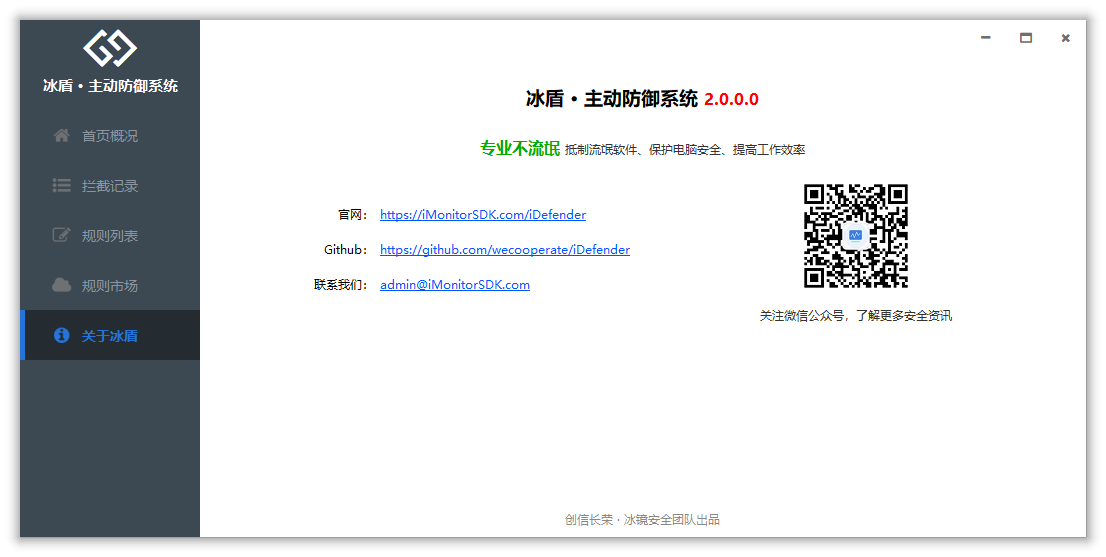
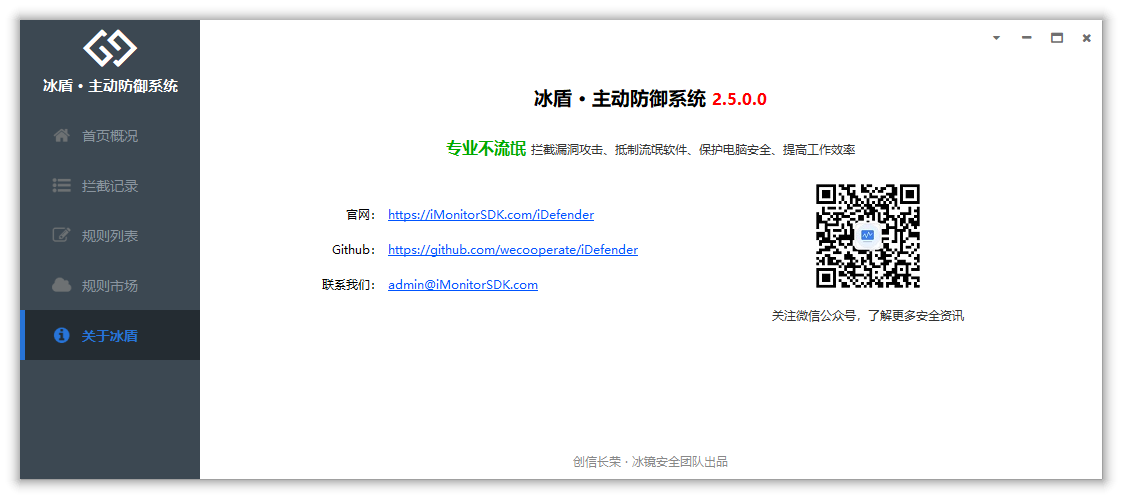
iDefender 2.5

diff --git a/docs/idefender/index.md b/docs/idefender/index.md
@@ -1,5 +1,5 @@
 ---
-title: 冰盾 - 主动防御系统
+title: 冰盾 · 主动防御系统
 order: 0
 nav:
   title: 冰盾
@@ -8,24 +8,25 @@ nav:
 
 ## iDefender
 
-**冰盾 - 主动防御系统**  【专业不流氓】是一款基于[iMonitorSDK](https://imonitorsdk.com/)实现，为专业人士打造的终端、主机主动防御系统。使用冰盾可以帮助您抵制流氓软件、保护电脑安全、提高工作效率。
+**冰盾 · 主动防御系统**  【专业不流氓】是一款基于[iMonitorSDK](https://imonitorsdk.com/)实现，为专业人士打造的终端、主机主动防御系统。使用冰盾可以帮助您拦截漏洞攻击、抵制流氓软件、保护电脑安全、提高工作效率。
 
 ## 功能特点
 
-- 支持进程、文件、注册表、网络等多种事件的监控拦截
-- 支持多种不同的规则匹配，使用模板 + 参数的方式，让规则编辑更加方便
-- 使用匹配缓存，优化匹配速度，性能消耗低
+- 支持监控拦截多种事件，包括进程、文件、注册表、网络等。
+- 内置智能防护、系统优化、安全加固、漏洞防御等默认规则，一键开启防护功能。
+- 支持多种规则模板，可以快速添加规则，满足不同的防护需求。
+- 占用系统资源低，兼容性好，适用于Win7到Win11以及Windows Server系统。
 
 ## 使用场景
 
-- 文档保护 - 防止勒索病毒
-- 进程守护 - 防止进程被注入、结束
-- 进程拦截 - 抵制流氓软件
-- 主机安全 - 保护服务器不被入侵
-- 联网控制 - 保护个人隐私
-- 行为管理 - 安全上网
-- 病毒拦截 - 云引擎自动拦截病毒
-- 隐私保护 - 保护您的数据不被流氓软件偷偷上传
+- **文档保护：** 防止勒索病毒对您的重要文档进行加密，保护您的数据安全。
+- **进程拦截：** 拦截流氓软件的恶意行为，保护您的计算机系统不受恶意软件的侵害。
+- **主机安全：** 提供多层安全防护机制，保护服务器不受黑客攻击和恶意软件的入侵。
+- **病毒拦截：** 通过云引擎自动拦截病毒，提供实时的病毒拦截和清除功能，保护您的计算机系统不受病毒和恶意软件的感染。
+- **隐私保护：** 监控并防止流氓软件对您的个人隐私进行窃取和上传，保护您的数据不被非法获取和滥用。
+- **联网控制：** 监控网络流量，防止个人信息泄露和网络攻击，保护您的个人隐私。
+- **上网管理：** 通过对上网行为的管理和控制，保障您的网络安全，防止不良信息的侵害。
+- **进程守护：** 防止恶意程序对进程进行注入和结束，保护系统稳定和安全。
 
 ## 软件截图
 
@@ -39,6 +40,8 @@ nav:
 
 ![home](./doc/templates.png)
 
+![home](./doc/templates_2.png)
+
 ![home](./doc/rule_process.png)
 
 ![home](./doc/rule_file_protect.png)
@@ -47,11 +50,33 @@ nav:
 
 ![home](./doc/rule_adv.png)
 
-![home](./doc/rule_pro.png)
-
 ![home](./doc/about.png)
 
 ## 版本说明
+
+### 2.5.0.0
+
+**重大版本，建议更新**
+
+- 优化内置的默认规则
+  - 添加智能防护默认规则
+  - 添加系统优化默认规则
+  - 添加漏洞防御默认规则
+  - 添加安全加固默认规则
+
+- 模板支持自动在线更新
+- 规则记录添加右键菜单
+- 路径参数添加粘贴支持（方便快速录入多条数据）
+- 路径参数添加多选删除
+- 弹框添加进程命令行信息（方便查看脚本进程对应的脚本文件）
+- 添加规则过滤
+- 优化一些界面使用体验
+- 修复一些问题
+
+<div class = "md_footer" >
+  <a href = "https://imonitorsdk.com/publish/iDefender.exe"> <button class="main-button"> 软件下载 </button></a>
+</div>
+
 ### 2.4.1.0
 
 主要是BUG修复，建议更新
@@ -59,10 +84,6 @@ nav:
 - 修复规则列表“响应动作”下拉框没有自适应宽度覆盖到开启按钮的问题
 - 修复规则市场更新通知极端情况可能导致没法正常启动的问题
 - 添加无文件攻击默认规则
-
-<div class = "md_footer" >
-  <a href = "https://imonitorsdk.com/publish/iDefender.exe"> <button class="main-button"> 软件下载 </button></a>
-</div>
 
 ### 2.4.0.0
 

diff --git a/docs/idefender/helper.md b/docs/idefender/helper.md
@@ -1,0 +1,82 @@
+---
+title: 使用帮助
+order: 10
+nav:
+  title: 冰盾
+  order: 2
+---
+
+## 使用说明
+
+冰盾是一款基于软件行为规则的防御引擎，规则主要包括基础规则和自定义规则两部分。
+
+### 基础规则
+
+- **智能防护：** 利用智能分析和识别恶意软件行为，提供实时防护机制，确保系统免受恶意软件侵害。
+- **系统优化：** 拦截非必要的软件和联网行为，提高系统运行速度和稳定性，提供更优秀的用户体验。
+- **安全加固：** 拦截系统存在漏洞的组件和常见入侵途径，增强系统安全性，避免遭受恶意软件攻击。
+- **漏洞防御：** 根据已知漏洞入侵方式开发专门的防御规则，保障系统不受黑客攻击和恶意软件入侵。
+
+![](./doc/rule_system_opt.png)
+
+![](./doc/rule_vul_defense.png)
+
+![](./doc/rule_reforce.png)
+
+### 自定义规则
+
+为了更方便地添加自定义规则，冰盾采用模板+参数的方式。使用模板创建规则后，只需添加关键参数即可建立规则。例如，使用进程启动模板时，只需填写需要拦截的进程名称或路径即可。
+
+目前已经支持的规则模板有30多个，未来根据需求还会持续添加。
+
+![](./doc/templates.png)
+
+![](./doc/templates_2.png)
+
+#### 常见规则模板介绍
+
+##### 禁止进程启动
+
+![](./doc/rule_process.png)
+
+
+##### 文档保护
+
+![](./doc/rule_file_protect.png)
+
+##### 隐私保护
+
+![](./doc/rule_privacy.png)
+
+##### 禁止进程访问网络
+
+![](./doc/rule_process_network.png)
+
+#### 专业版规则模板
+
+除了上面的场景规则模板，专业版本还提供了更加专业化的规则模板：高级模板、专家模板。
+
+![](./doc/rule_adv.png)
+
+### 拦截响应
+
+对行为拦截后，可以设置不同的响应动作：
+
+- **拦截：** 默认动作，拦截行为的发生。
+- **信任：** 信任当前的行为或者进程、配合优先级，可以实现白名单功能。
+- **弹框（默认拦截）：** 拦截后弹框由用户确认具体的处理逻辑，如果没有响应则默认拦截行为发生。
+- **弹框（默认信任）：** 拦截后弹框由用户确认具体的处理逻辑，如果没有响应则默认允许行为发生。
+- **记录：** 只记录事件的发生，可以用于查看创建的进程或者全部的联网过程等。未来可以把记录的事件上报到第三方数据中心，实现EDR功能。
+- **结束进程：** 结束当前的进程
+
+
+
+## 企业版功能（预告）
+
+冰盾企业版即将推出统一管理功能，具体包括：
+
+- 规则下发：支持对终端根据分组下发规则，保证企业安全策略的一致性。
+- 企业定制：支持下发配置定制终端表现，例如添加企业专属LOGO、控制是否显示托盘、是否添加密码保护等。
+- 数据上报：支持将监控的事件上报到企业数据中心，集成到企业内部的EDR、SOC系统，也可以实现数据报表等功能。
+
+敬请期待
